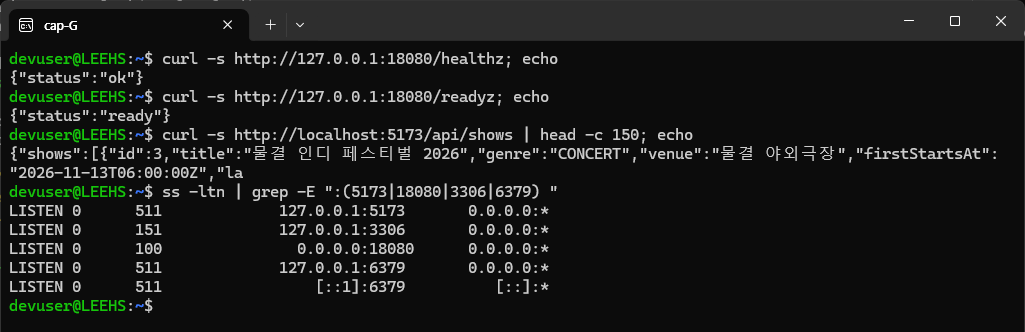
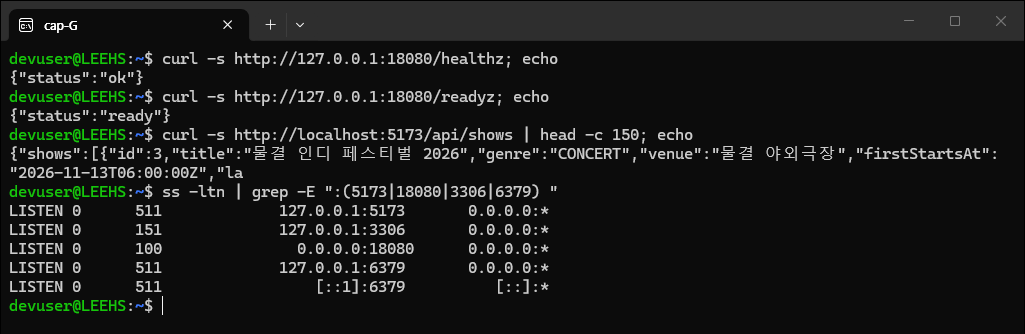
비밀번호를 저장소에서 빼고 .env 로 주입
- docker-compose.yml, backend/docker-compose.dev.yml: 비밀번호를 ${VAR:?} 로 .env 에서 읽음
- MySQL 초기화 SQL 을 환경 변수를 읽는 스크립트로 교체
  (backend/docker/mysql-init/01-init.sh, local/init-db.sh)
- local/run-backend.sh: 루트 .env 에서 DB 비밀번호를 읽음
- 루트 .env.example 추가(빈 칸), backend/.env.example 비밀번호 칸 비움
- README 의 비밀번호 예시 제거
- 문서 1 콘솔 캡처를 GitHub clone 기준으로 갱신

diff --git a/local/README-local.md b/local/README-local.md
@@ -17,9 +17,12 @@ Docker의 게이트웨이(nginx) 역할은 Vite 개발 서버가 대신한다(`/
 # JDK 21과 Redis 설치
 sudo apt update && sudo apt install -y openjdk-21-jdk-headless redis-server
 
-# MySQL을 켜고 DB와 계정 만들기 (기존 DB는 건드리지 않는다)
+# 비밀번호 파일 만들기 (저장소 루트에서. .env 는 저장소에 올리지 않는다)
+cp .env.example .env     # DB_OWNER_PASSWORD, DB_APP_PASSWORD 를 채운다. 예: openssl rand -hex 16
+
+# MySQL을 켜고 DB와 계정 만들기 (.env 의 비밀번호를 쓴다. 기존 DB의 데이터는 건드리지 않는다)
 sudo service mysql start
-sudo mysql < ~/ticketing/local/01-init-db.sql    # 소스를 받은 위치에 맞게 경로를 바꾼다
+bash local/init-db.sh
 ```
 
 ## 매번 실행할 때
@@ -54,7 +57,7 @@ powershell -ExecutionPolicy Bypass -File .\local\stop-local.ps1
 | `run-local.ps1` | 전체 실행(Windows에서 실행). 백엔드는 WSL의 `run-backend.sh`를 부른다 |
 | `run-backend.sh` | WSL에서 백엔드 실행. 직접 실행해도 된다: `bash local/run-backend.sh` |
 | `stop-local.ps1` | 종료 |
-| `01-init-db.sql` | DB와 계정 생성(처음 한 번) |
+| `init-db.sh` | DB와 계정 생성(처음 한 번). 비밀번호는 루트의 `.env`에서 읽는다 |
 | `.run/` | 실행 로그(`backend.log`, `frontend.log`)와 프로세스 번호 |
 
 ## 알아둘 점
